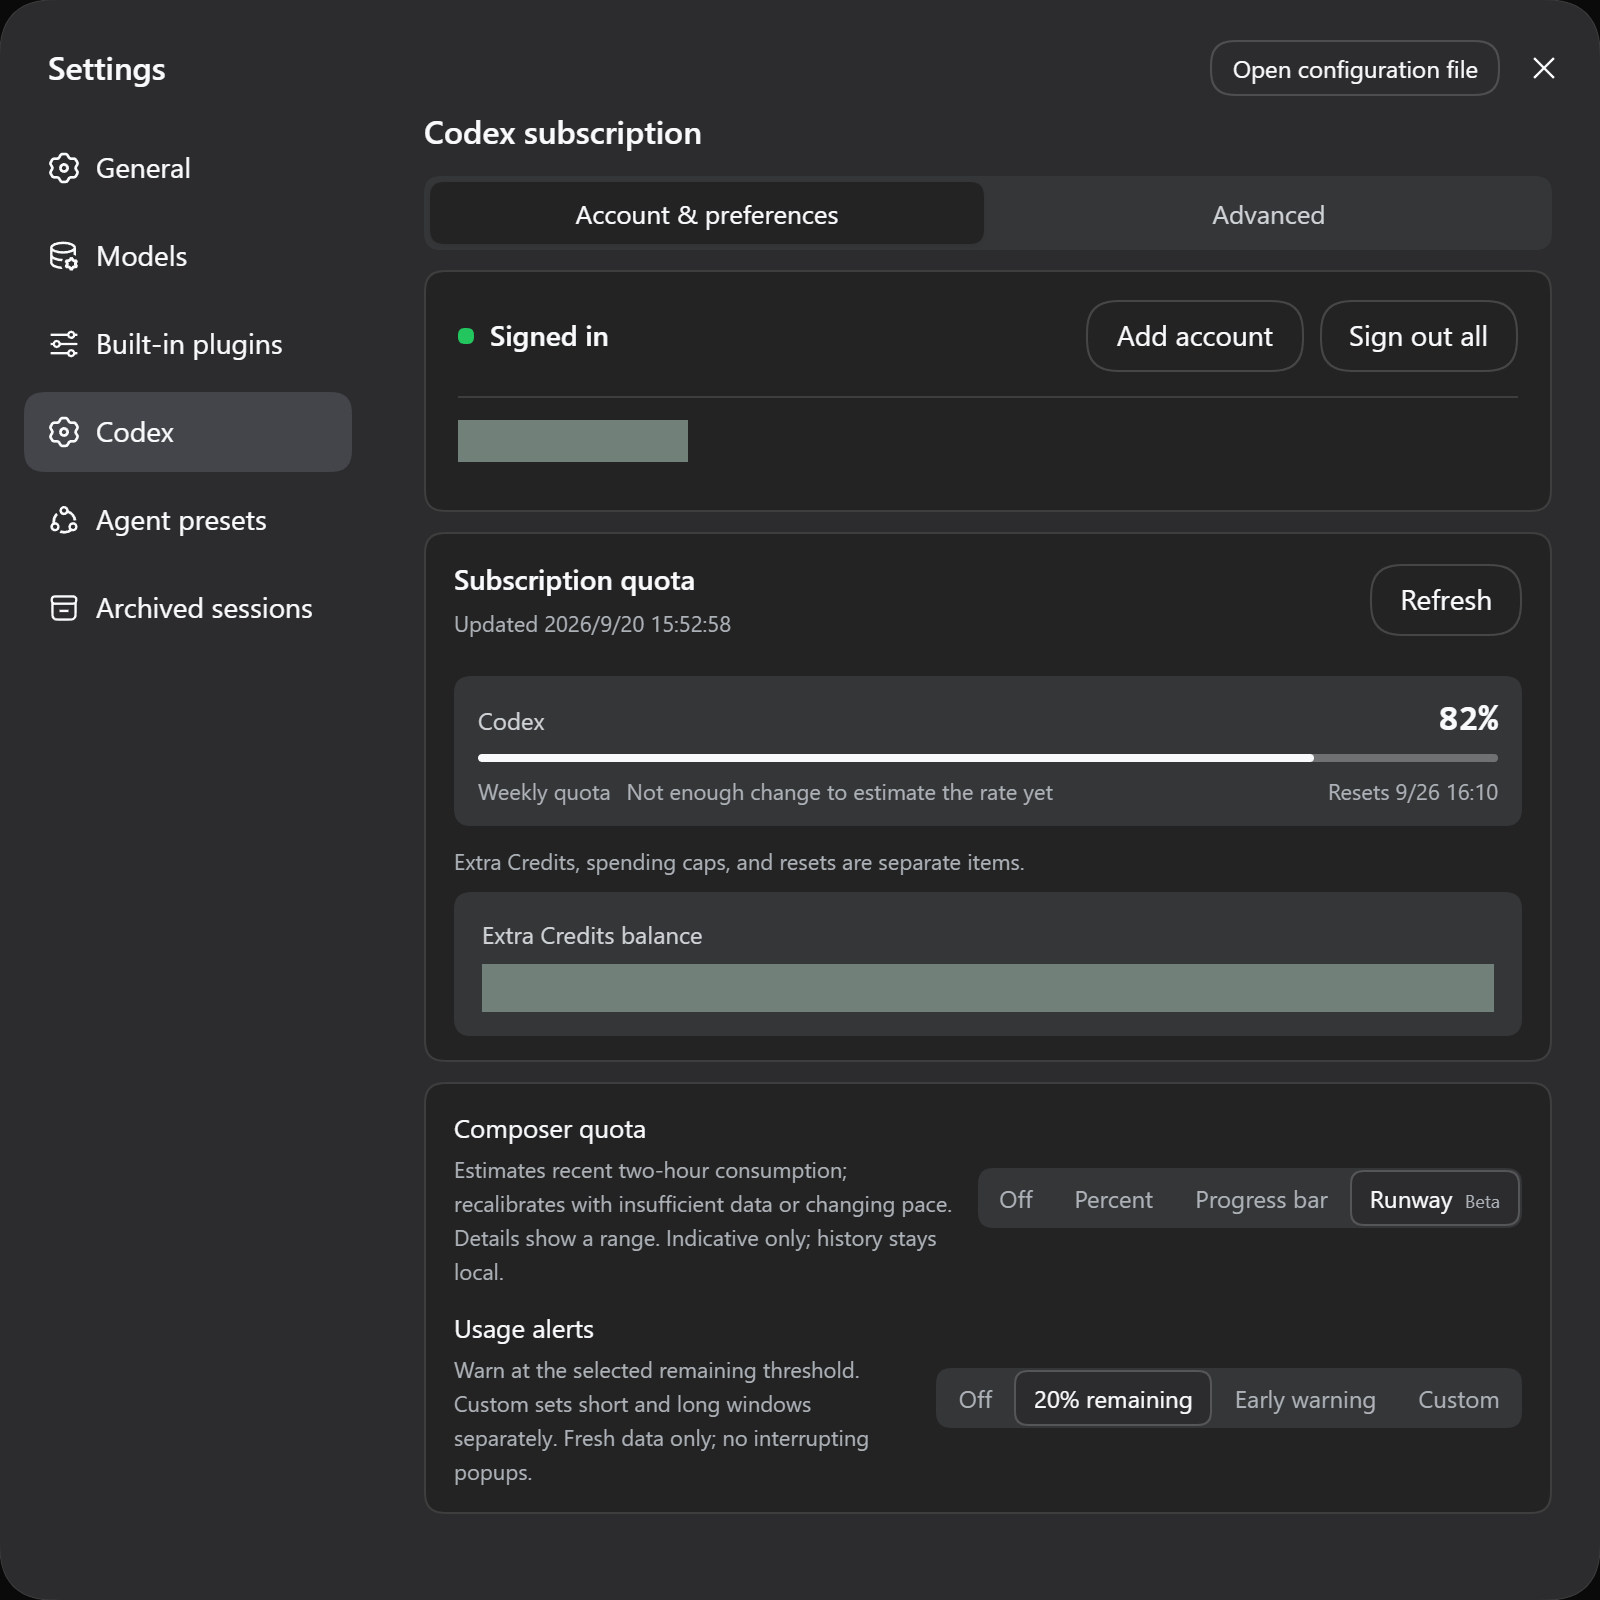
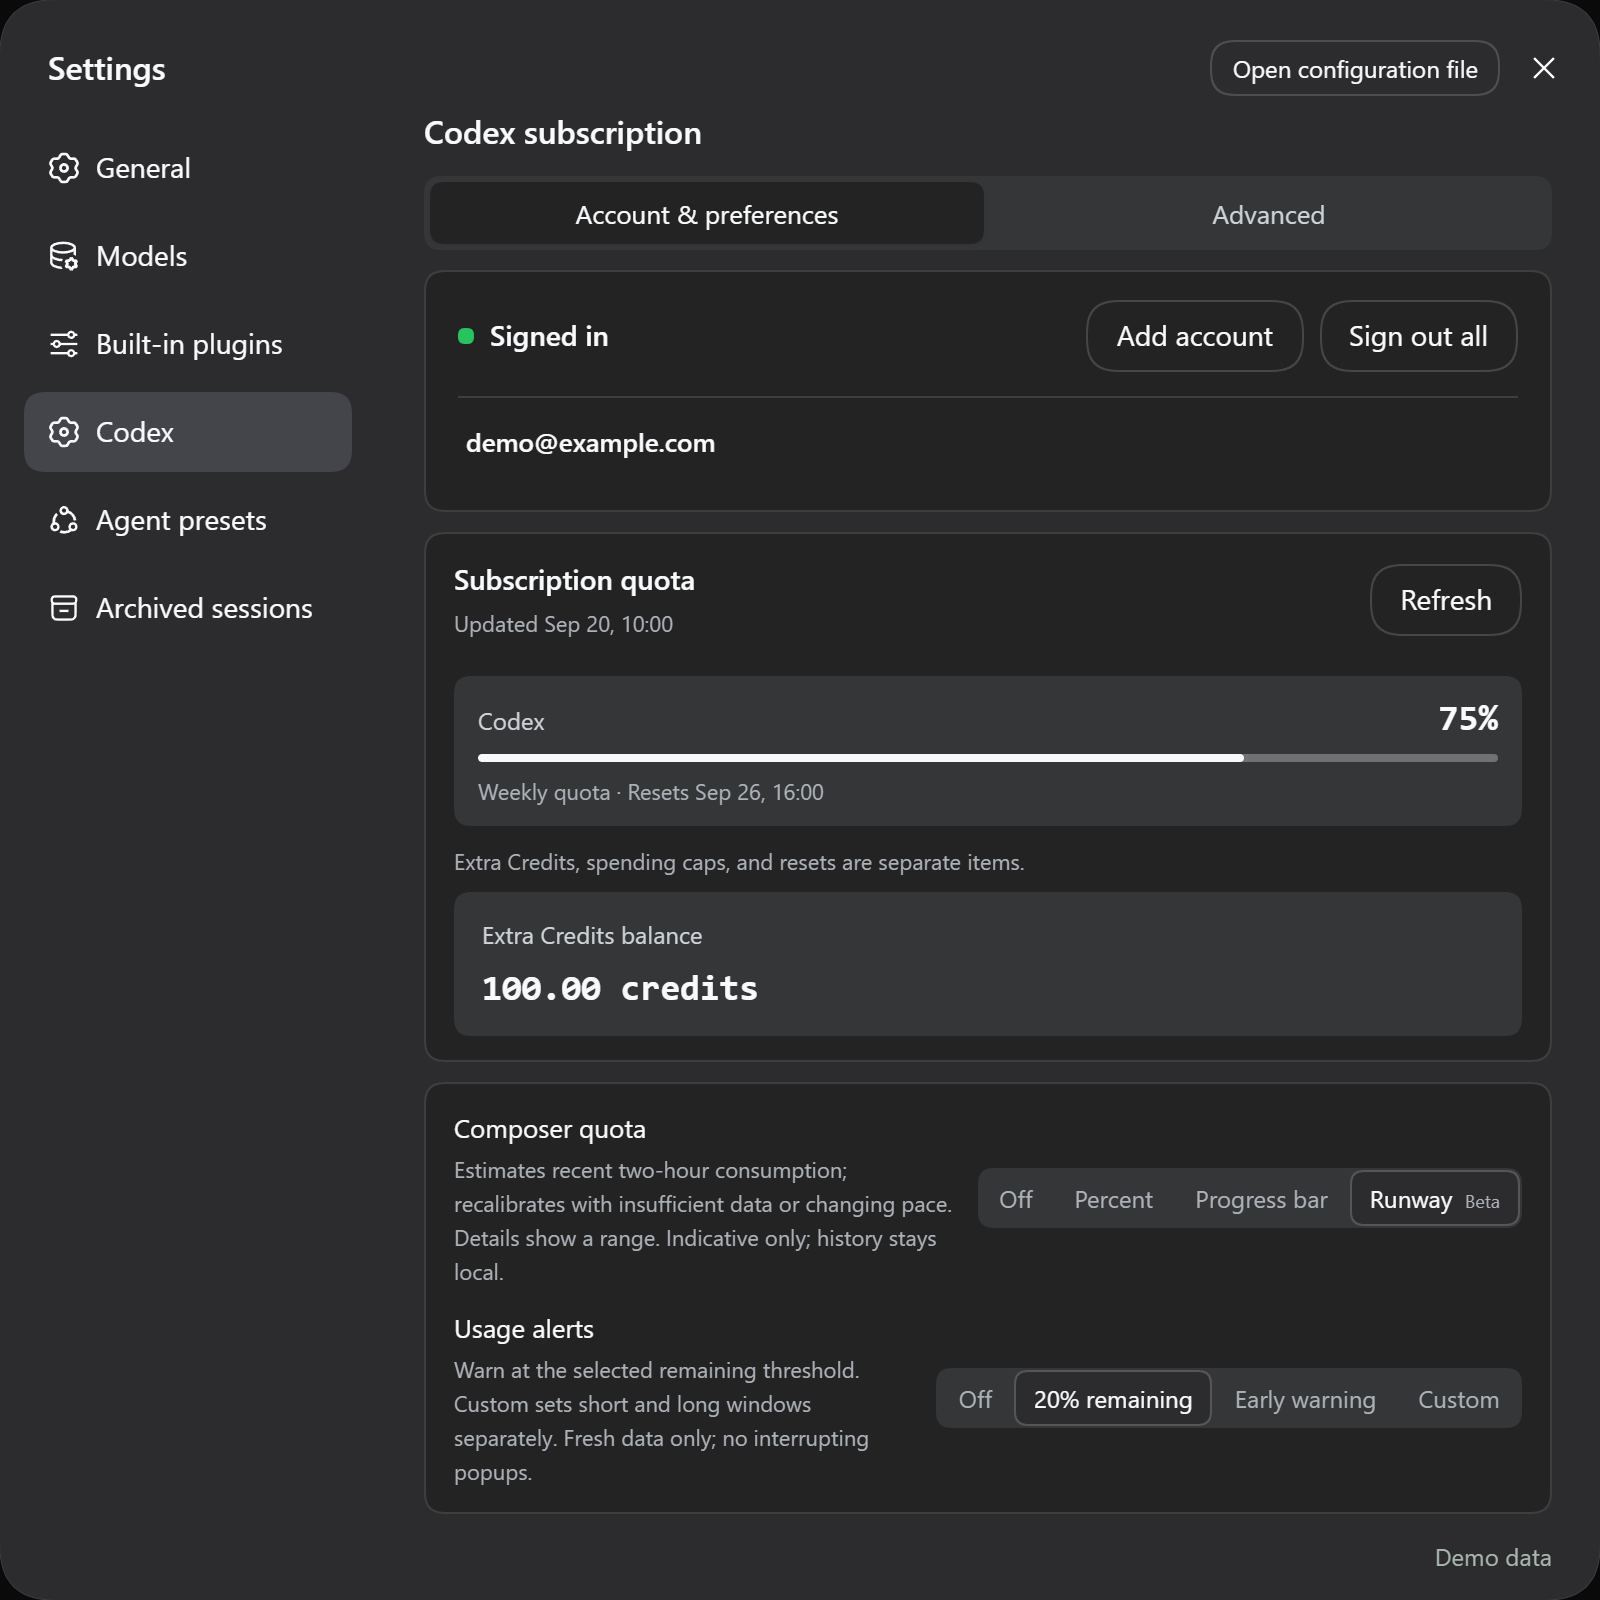
docs: use labeled demo account data in product screenshots

diff --git a/README.en.md b/README.en.md
@@ -60,7 +60,7 @@ These capabilities reuse the same local ChatGPT sign-in. Subscription routing fa
   <img src="docs/assets/subscription-account-en.png" width="820" alt="DSH Codex subscription main screen: ChatGPT sign-in, remaining quota and composer preferences">
 </p>
 
-The actual Account & preferences screen shows sign-in status, subscription quota and composer preferences. Account identifiers and Credits balances are hidden; quota is an account-specific snapshot. Advanced options and optional components are described below.
+The actual Account & preferences screen shows sign-in status, subscription quota and composer preferences. Account, quota, balance and time values are demo data, not fixed plan entitlements. Advanced options and optional components are described below.
 
 ## Prepare DSH
 
